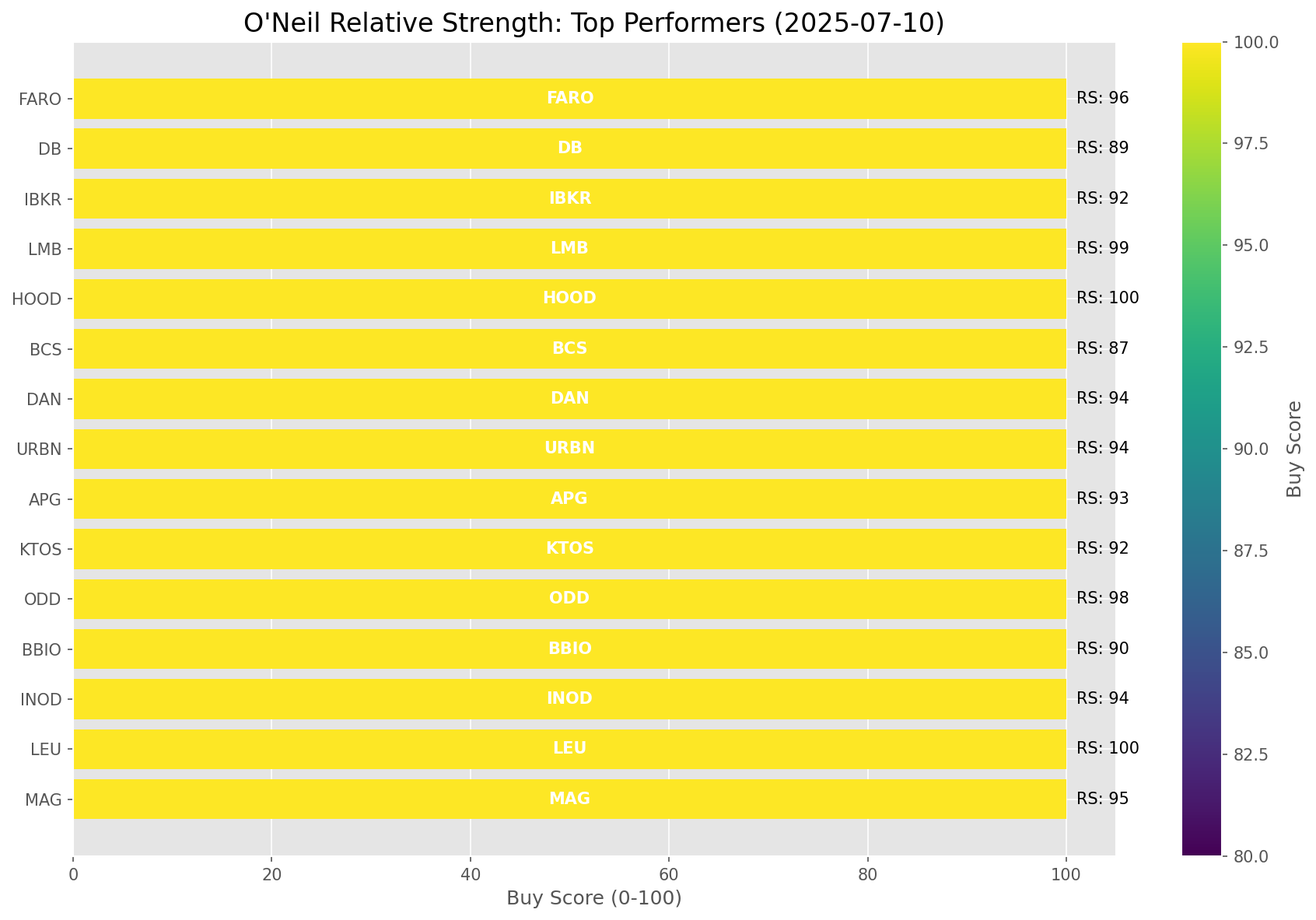
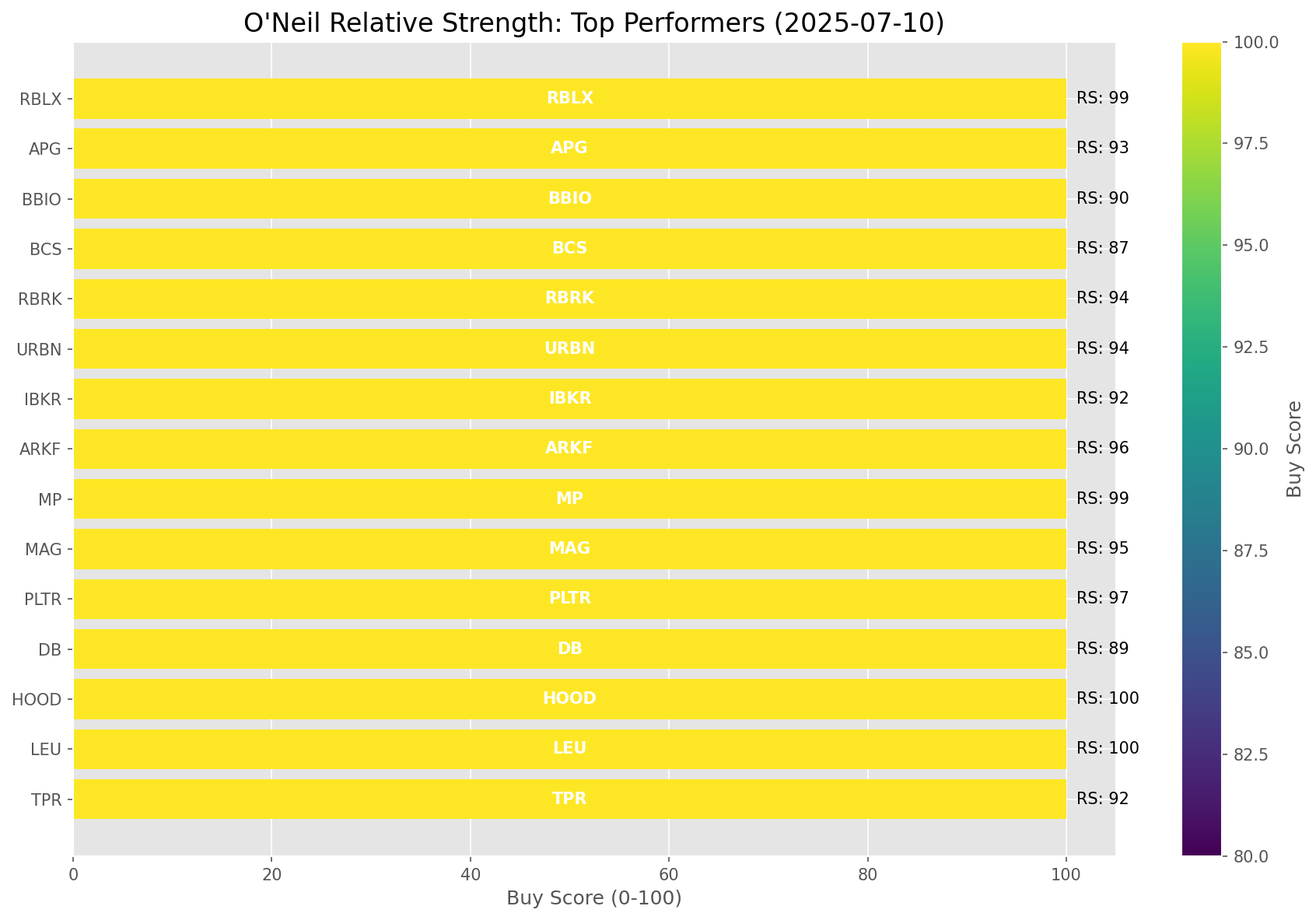
Add market report for 2025-07-10

diff --git a/oneil_relative_strength_report_2025-07-10.md b/oneil_relative_strength_report_2025-07-10.md
@@ -9,11 +9,11 @@
 | Metric | Value |
 |--------|-------|
 | **Market Valuation** | **Overvalued** |
-| **Current Ratio** | 10.28 |
+| **Current Ratio** | 10.30 |
 | **Historical Mean** | 9.44 |
 | **Standard Deviation** | 0.51 |
 | **Z-Score (StdDev from Mean)** | 1.62 |
-| **Total Market Cap** | $308.15 trillion |
+| **Total Market Cap** | $308.55 trillion |
 | **GDP** | $29.96 trillion |
 
 ## **Market Insights**
@@ -49,41 +49,41 @@ Based on William O'Neil's Relative Strength Methodology
 
 | ETF | Strength | RS Rating | Performance | Above Key MAs | Trend | Sector |
 |-----|----------|-----------|-------------|--------------|-------|--------|
-| [ARKW](https://www.tradingview.com/chart/?symbol=ARKW) | 98.0 | 96.0 | 76.14% | 10d ✓, 50d ✓, 200d ✓ | ↗ | Next Generation Internet |
-| [ARKF](https://www.tradingview.com/chart/?symbol=ARKF) | 98.0 | 96.0 | 75.40% | 10d ✓, 50d ✓, 200d ✓ | ↗ | Fintech Innovation |
-| [ARKK](https://www.tradingview.com/chart/?symbol=ARKK) | 98.0 | 96.0 | 80.20% | 10d ✓, 50d ✓, 200d ✓ | ↗ | Innovation |
-| [BLOK](https://www.tradingview.com/chart/?symbol=BLOK) | 97.0 | 94.0 | 63.84% | 10d ✓, 50d ✓, 200d ✓ | ↗ | Blockchain & Cryptocurrency |
-| [JETS](https://www.tradingview.com/chart/?symbol=JETS) | 93.5 | 87.0 | 47.50% | 10d ✓, 50d ✓, 200d ✓ | ↗ | Airlines |
-| [XLK](https://www.tradingview.com/chart/?symbol=XLK) | 91.5 | 83.0 | 42.81% | 10d ✓, 50d ✓, 200d ✓ | ↗ | Technology |
-| [AIQ](https://www.tradingview.com/chart/?symbol=AIQ) | 90.0 | 80.0 | 38.41% | 10d ✓, 50d ✓, 200d ✓ | ↗ | Artificial Intelligence & Technology |
-| [URA](https://www.tradingview.com/chart/?symbol=URA) | 88.6 | 97.0 | 82.75% | 10d ✗, 50d ✓, 200d ✓ | ↗ | Uranium |
-| [PAVE](https://www.tradingview.com/chart/?symbol=PAVE) | 87.5 | 75.0 | 34.09% | 10d ✓, 50d ✓, 200d ✓ | ↗ | Infrastructure |
-| [XLI](https://www.tradingview.com/chart/?symbol=XLI) | 84.5 | 69.0 | 29.72% | 10d ✓, 50d ✓, 200d ✓ | ↗ | Industrial |
-| [XLY](https://www.tradingview.com/chart/?symbol=XLY) | 80.5 | 61.0 | 25.34% | 10d ✓, 50d ✓, 200d ✓ | ↗ | Consumer Discretionary |
-| [SLV](https://www.tradingview.com/chart/?symbol=SLV) | 78.0 | 56.0 | 23.33% | 10d ✓, 50d ✓, 200d ✓ | ↗ | Silver |
-| [SOXX](https://www.tradingview.com/chart/?symbol=SOXX) | 76.0 | 92.0 | 59.26% | 10d ✓, 50d ✓, 200d ✓ | ↘ | Semiconductors |
-| [XLF](https://www.tradingview.com/chart/?symbol=XLF) | 75.0 | 50.0 | 19.98% | 10d ✓, 50d ✓, 200d ✓ | ↗ | Financial |
-| [CIBR](https://www.tradingview.com/chart/?symbol=CIBR) | 74.6 | 69.0 | 29.67% | 10d ✗, 50d ✓, 200d ✓ | ↗ | Cybersecurity |
-| [ARKG](https://www.tradingview.com/chart/?symbol=ARKG) | 71.5 | 83.0 | 42.37% | 10d ✓, 50d ✓, 200d ✓ | ↘ | Genomics |
-| [XLC](https://www.tradingview.com/chart/?symbol=XLC) | 69.1 | 58.0 | 23.89% | 10d ✗, 50d ✓, 200d ✓ | ↗ | Communications |
-| [XLU](https://www.tradingview.com/chart/?symbol=XLU) | 68.0 | 36.0 | 12.66% | 10d ✓, 50d ✓, 200d ✓ | ↗ | Utilities |
-| [IYT](https://www.tradingview.com/chart/?symbol=IYT) | 66.0 | 72.0 | 32.02% | 10d ✓, 50d ✓, 200d ✓ | ↘ | Transportation |
-| [IYZ](https://www.tradingview.com/chart/?symbol=IYZ) | 65.6 | 51.0 | 20.32% | 10d ✗, 50d ✓, 200d ✓ | ↗ | Telecommunications |
-| [KWEB](https://www.tradingview.com/chart/?symbol=KWEB) | 65.6 | 51.0 | 20.08% | 10d ✗, 50d ✓, 200d ✓ | ↗ | Chinese Internet |
-| [ICLN](https://www.tradingview.com/chart/?symbol=ICLN) | 63.5 | 67.0 | 28.27% | 10d ✓, 50d ✓, 200d ✓ | ↘ | Clean Energy |
-| [XLB](https://www.tradingview.com/chart/?symbol=XLB) | 59.5 | 59.0 | 24.64% | 10d ✓, 50d ✓, 200d ✓ | ↘ | Materials |
-| [XLE](https://www.tradingview.com/chart/?symbol=XLE) | 51.0 | 42.0 | 15.80% | 10d ✓, 50d ✓, 200d ✓ | ↘ | Energy |
-| [GLD](https://www.tradingview.com/chart/?symbol=GLD) | 46.7 | 33.0 | 11.02% | 10d ✗, 50d ✗, 200d ✓ | ↗ | Gold |
-| [DBC](https://www.tradingview.com/chart/?symbol=DBC) | 46.0 | 32.0 | 10.14% | 10d ✓, 50d ✓, 200d ✓ | ↘ | Commodities |
-| [IBB](https://www.tradingview.com/chart/?symbol=IBB) | 44.3 | 49.0 | 19.08% | 10d ✓, 50d ✓, 200d ✗ | ↘ | Biotechnology |
-| [ITB](https://www.tradingview.com/chart/?symbol=ITB) | 43.3 | 47.0 | 18.21% | 10d ✓, 50d ✓, 200d ✗ | ↘ | Home Construction |
-| [XLP](https://www.tradingview.com/chart/?symbol=XLP) | 42.7 | 25.0 | 6.39% | 10d ✗, 50d ✗, 200d ✓ | ↗ | Consumer Staples |
-| [IYR](https://www.tradingview.com/chart/?symbol=IYR) | 38.3 | 37.0 | 13.27% | 10d ✓, 50d ✓, 200d ✗ | ↘ | Real Estate |
-| [XLV](https://www.tradingview.com/chart/?symbol=XLV) | 29.3 | 19.0 | 2.81% | 10d ✓, 50d ✓, 200d ✗ | ↘ | Healthcare |
-| [DBA](https://www.tradingview.com/chart/?symbol=DBA) | 25.0 | 10.0 | -0.80% | 10d ✗, 50d ✗, 200d ✗ | ↗ | Agriculture |
-| [UUP](https://www.tradingview.com/chart/?symbol=UUP) | 13.4 | 7.0 | -3.86% | 10d ✓, 50d ✗, 200d ✗ | ↘ | U.S. Dollar |
-| [BIL](https://www.tradingview.com/chart/?symbol=BIL) | 6.0 | 12.0 | 0.03% | 10d ✗, 50d ✗, 200d ✗ | ↘ | Short-term Treasuries |
-| [TLT](https://www.tradingview.com/chart/?symbol=TLT) | 4.5 | 9.0 | -1.95% | 10d ✗, 50d ✗, 200d ✗ | ↘ | Long-term Treasuries |
+| [ARKW](https://www.tradingview.com/chart/?symbol=ARKW) | 98.0 | 96.0 | 81.95% | 10d ✓, 50d ✓, 200d ✓ | ↗ | Next Generation Internet |
+| [ARKF](https://www.tradingview.com/chart/?symbol=ARKF) | 98.0 | 96.0 | 76.14% | 10d ✓, 50d ✓, 200d ✓ | ↗ | Fintech Innovation |
+| [ARKK](https://www.tradingview.com/chart/?symbol=ARKK) | 98.0 | 96.0 | 80.70% | 10d ✓, 50d ✓, 200d ✓ | ↗ | Innovation |
+| [BLOK](https://www.tradingview.com/chart/?symbol=BLOK) | 97.0 | 94.0 | 64.87% | 10d ✓, 50d ✓, 200d ✓ | ↗ | Blockchain & Cryptocurrency |
+| [JETS](https://www.tradingview.com/chart/?symbol=JETS) | 93.5 | 87.0 | 48.19% | 10d ✓, 50d ✓, 200d ✓ | ↗ | Airlines |
+| [XLK](https://www.tradingview.com/chart/?symbol=XLK) | 91.5 | 83.0 | 43.05% | 10d ✓, 50d ✓, 200d ✓ | ↗ | Technology |
+| [AIQ](https://www.tradingview.com/chart/?symbol=AIQ) | 89.5 | 79.0 | 38.60% | 10d ✓, 50d ✓, 200d ✓ | ↗ | Artificial Intelligence & Technology |
+| [URA](https://www.tradingview.com/chart/?symbol=URA) | 88.1 | 96.0 | 82.13% | 10d ✗, 50d ✓, 200d ✓ | ↗ | Uranium |
+| [PAVE](https://www.tradingview.com/chart/?symbol=PAVE) | 87.5 | 75.0 | 34.13% | 10d ✓, 50d ✓, 200d ✓ | ↗ | Infrastructure |
+| [XLI](https://www.tradingview.com/chart/?symbol=XLI) | 84.0 | 68.0 | 29.82% | 10d ✓, 50d ✓, 200d ✓ | ↗ | Industrial |
+| [XLY](https://www.tradingview.com/chart/?symbol=XLY) | 80.0 | 60.0 | 25.38% | 10d ✓, 50d ✓, 200d ✓ | ↗ | Consumer Discretionary |
+| [SLV](https://www.tradingview.com/chart/?symbol=SLV) | 78.0 | 56.0 | 23.36% | 10d ✓, 50d ✓, 200d ✓ | ↗ | Silver |
+| [SOXX](https://www.tradingview.com/chart/?symbol=SOXX) | 76.0 | 92.0 | 59.28% | 10d ✓, 50d ✓, 200d ✓ | ↘ | Semiconductors |
+| [XLF](https://www.tradingview.com/chart/?symbol=XLF) | 75.0 | 50.0 | 20.07% | 10d ✓, 50d ✓, 200d ✓ | ↗ | Financial |
+| [CIBR](https://www.tradingview.com/chart/?symbol=CIBR) | 74.6 | 69.0 | 30.02% | 10d ✗, 50d ✓, 200d ✓ | ↗ | Cybersecurity |
+| [ARKG](https://www.tradingview.com/chart/?symbol=ARKG) | 71.5 | 83.0 | 42.72% | 10d ✓, 50d ✓, 200d ✓ | ↘ | Genomics |
+| [XLC](https://www.tradingview.com/chart/?symbol=XLC) | 68.6 | 57.0 | 23.92% | 10d ✗, 50d ✓, 200d ✓ | ↗ | Communications |
+| [XLU](https://www.tradingview.com/chart/?symbol=XLU) | 68.0 | 36.0 | 13.03% | 10d ✓, 50d ✓, 200d ✓ | ↗ | Utilities |
+| [IYT](https://www.tradingview.com/chart/?symbol=IYT) | 66.0 | 72.0 | 32.42% | 10d ✓, 50d ✓, 200d ✓ | ↘ | Transportation |
+| [IYZ](https://www.tradingview.com/chart/?symbol=IYZ) | 65.6 | 51.0 | 20.51% | 10d ✗, 50d ✓, 200d ✓ | ↗ | Telecommunications |
+| [KWEB](https://www.tradingview.com/chart/?symbol=KWEB) | 65.1 | 50.0 | 20.44% | 10d ✗, 50d ✓, 200d ✓ | ↗ | Chinese Internet |
+| [ICLN](https://www.tradingview.com/chart/?symbol=ICLN) | 63.0 | 66.0 | 28.13% | 10d ✓, 50d ✓, 200d ✓ | ↘ | Clean Energy |
+| [XLB](https://www.tradingview.com/chart/?symbol=XLB) | 59.0 | 58.0 | 24.59% | 10d ✓, 50d ✓, 200d ✓ | ↘ | Materials |
+| [XLE](https://www.tradingview.com/chart/?symbol=XLE) | 50.5 | 41.0 | 15.78% | 10d ✓, 50d ✓, 200d ✓ | ↘ | Energy |
+| [GLD](https://www.tradingview.com/chart/?symbol=GLD) | 46.7 | 33.0 | 10.98% | 10d ✗, 50d ✗, 200d ✓ | ↗ | Gold |
+| [DBC](https://www.tradingview.com/chart/?symbol=DBC) | 45.5 | 31.0 | 10.07% | 10d ✓, 50d ✓, 200d ✓ | ↘ | Commodities |
+| [IBB](https://www.tradingview.com/chart/?symbol=IBB) | 43.8 | 48.0 | 19.14% | 10d ✓, 50d ✓, 200d ✗ | ↘ | Biotechnology |
+| [ITB](https://www.tradingview.com/chart/?symbol=ITB) | 42.8 | 46.0 | 18.09% | 10d ✓, 50d ✓, 200d ✗ | ↘ | Home Construction |
+| [XLP](https://www.tradingview.com/chart/?symbol=XLP) | 42.7 | 25.0 | 6.57% | 10d ✗, 50d ✗, 200d ✓ | ↗ | Consumer Staples |
+| [IYR](https://www.tradingview.com/chart/?symbol=IYR) | 38.3 | 37.0 | 13.59% | 10d ✓, 50d ✓, 200d ✗ | ↘ | Real Estate |
+| [XLV](https://www.tradingview.com/chart/?symbol=XLV) | 28.8 | 18.0 | 2.82% | 10d ✓, 50d ✓, 200d ✗ | ↘ | Healthcare |
+| [DBA](https://www.tradingview.com/chart/?symbol=DBA) | 27.5 | 15.0 | 1.04% | 10d ✗, 50d ✗, 200d ✗ | ↗ | Agriculture |
+| [TLT](https://www.tradingview.com/chart/?symbol=TLT) | 14.4 | 9.0 | -1.90% | 10d ✗, 50d ✓, 200d ✗ | ↘ | Long-term Treasuries |
+| [UUP](https://www.tradingview.com/chart/?symbol=UUP) | 13.4 | 7.0 | -3.88% | 10d ✓, 50d ✗, 200d ✗ | ↘ | U.S. Dollar |
+| [BIL](https://www.tradingview.com/chart/?symbol=BIL) | 5.5 | 11.0 | 0.03% | 10d ✗, 50d ✗, 200d ✗ | ↘ | Short-term Treasuries |
 
 ### **Sector ETF Performance Interpretation**
 
@@ -100,152 +100,153 @@ This table shows the relative strength metrics for different market sectors base
 
 The current market leadership is coming from the following sectors: **Next Generation Internet, Fintech Innovation, Innovation**.
 
-The **Next Generation Internet** sector (represented by **ARKW**) is showing particularly strong relative strength with an RS rating of 96.0 and performance of 76.14% vs. the S&P 500. This sector is trading above its 10-day, 50-day, 200-day moving average(s). Investors should consider focusing on high RS stocks within these leading sectors for potential outperformance.
+The **Next Generation Internet** sector (represented by **ARKW**) is showing particularly strong relative strength with an RS rating of 96.0 and performance of 81.95% vs. the S&P 500. This sector is trading above its 10-day, 50-day, 200-day moving average(s). Investors should consider focusing on high RS stocks within these leading sectors for potential outperformance.
 
 ---
 
 ## **Buy Recommendations**
 
-The following 37 stocks show exceptional relative strength:
+The following 36 stocks show exceptional relative strength:
 
 | RS Rating | Buy Score | Current Price | Chart | Name | Ticker |
 |-----------|-----------|---------------|-------|------|--------|
-| 100 | 100 | $194.04 | [Chart](https://www.tradingview.com/chart/?symbol=LEU) | Centrus Energy Corp. | LEU |
-| 100 | 100 | $96.28 | [Chart](https://www.tradingview.com/chart/?symbol=HOOD) | Robinhood Markets, Inc. Class A Common Stock | HOOD |
+| 100 | 100 | $193.78 | [Chart](https://www.tradingview.com/chart/?symbol=LEU) | Centrus Energy Corp. | LEU |
+| 100 | 100 | $97.14 | [Chart](https://www.tradingview.com/chart/?symbol=HOOD) | Robinhood Markets, Inc. Class A Common Stock | HOOD |
+| 99 | 100 | $44.15 | [Chart](https://www.tradingview.com/chart/?symbol=MP) | MP Materials Corp. | MP |
+| 99 | 100 | $104.70 | [Chart](https://www.tradingview.com/chart/?symbol=RBLX) | Roblox Corporation | RBLX |
 | 99 | 100 | $145.69 | [Chart](https://www.tradingview.com/chart/?symbol=LMB) | Limbach Holdings, Inc Common Stock | LMB |
-| 99 | 100 | $104.84 | [Chart](https://www.tradingview.com/chart/?symbol=RBLX) | Roblox Corporation | RBLX |
-| 98 | 100 | $75.09 | [Chart](https://www.tradingview.com/chart/?symbol=ODD) | ODDITY Tech Ltd. Class A Ordinary Shares | ODD |
-| 98 | 100 | $144.00 | [Chart](https://www.tradingview.com/chart/?symbol=FUTU) | Futu Holdings Limited American Depositary Shares | FUTU |
-| 98 | 100 | $43.61 | [Chart](https://www.tradingview.com/chart/?symbol=MP) | MP Materials Corp. | MP |
-| 98 | 100 | $104.97 | [Chart](https://www.tradingview.com/chart/?symbol=VRNA) | Verona Pharma plc | VRNA |
-| 98 | 100 | $349.08 | [Chart](https://www.tradingview.com/chart/?symbol=CVNA) | Carvana Co. | CVNA |
-| 97 | 100 | $140.71 | [Chart](https://www.tradingview.com/chart/?symbol=PLTR) | Palantir Technologies Inc. Class A Common Stock | PLTR |
-| 97 | 100 | $539.22 | [Chart](https://www.tradingview.com/chart/?symbol=GEV) | GE Vernova Inc. | GEV |
-| 96 | 100 | $43.91 | [Chart](https://www.tradingview.com/chart/?symbol=FARO) | Faro Technologies Inc | FARO |
-| 96 | 100 | $51.20 | [Chart](https://www.tradingview.com/chart/?symbol=ARKF) | ARK Fintech Innovation ETF | ARKF |
-| 95 | 100 | $21.43 | [Chart](https://www.tradingview.com/chart/?symbol=MAG) | MAG Silver Corp. | MAG |
-| 94 | 100 | $53.04 | [Chart](https://www.tradingview.com/chart/?symbol=INOD) | Innodata Inc. | INOD |
-| 94 | 100 | $73.14 | [Chart](https://www.tradingview.com/chart/?symbol=URBN) | Urban Outfitters Inc | URBN |
-| 94 | 100 | $17.42 | [Chart](https://www.tradingview.com/chart/?symbol=DAN) | Dana Incorporated | DAN |
-| 93 | 100 | $34.73 | [Chart](https://www.tradingview.com/chart/?symbol=APG) | APi Group Corporation | APG |
-| 93 | 100 | $98.04 | [Chart](https://www.tradingview.com/chart/?symbol=TPR) | Tapestry, Inc. Common Stock | TPR |
-| 92 | 100 | $45.94 | [Chart](https://www.tradingview.com/chart/?symbol=KTOS) | Kratos Defense & Security Solutions, Inc. | KTOS |
-| 92 | 100 | $58.96 | [Chart](https://www.tradingview.com/chart/?symbol=IBKR) | Interactive Brokers Group, Inc. Class A Common Stock | IBKR |
+| 98 | 100 | $104.91 | [Chart](https://www.tradingview.com/chart/?symbol=VRNA) | Verona Pharma plc | VRNA |
+| 98 | 100 | $143.40 | [Chart](https://www.tradingview.com/chart/?symbol=FUTU) | Futu Holdings Limited American Depositary Shares | FUTU |
+| 98 | 100 | $349.00 | [Chart](https://www.tradingview.com/chart/?symbol=CVNA) | Carvana Co. | CVNA |
+| 97 | 100 | $141.99 | [Chart](https://www.tradingview.com/chart/?symbol=PLTR) | Palantir Technologies Inc. Class A Common Stock | PLTR |
+| 97 | 100 | $541.60 | [Chart](https://www.tradingview.com/chart/?symbol=GEV) | GE Vernova Inc. | GEV |
+| 96 | 100 | $51.41 | [Chart](https://www.tradingview.com/chart/?symbol=ARKF) | ARK Fintech Innovation ETF | ARKF |
+| 96 | 100 | $43.92 | [Chart](https://www.tradingview.com/chart/?symbol=FARO) | Faro Technologies Inc | FARO |
+| 95 | 100 | $21.38 | [Chart](https://www.tradingview.com/chart/?symbol=MAG) | MAG Silver Corp. | MAG |
+| 94 | 100 | $73.19 | [Chart](https://www.tradingview.com/chart/?symbol=URBN) | Urban Outfitters Inc | URBN |
+| 94 | 100 | $88.69 | [Chart](https://www.tradingview.com/chart/?symbol=RBRK) | Rubrik, Inc. | RBRK |
+| 93 | 100 | $34.72 | [Chart](https://www.tradingview.com/chart/?symbol=APG) | APi Group Corporation | APG |
+| 93 | 100 | $52.55 | [Chart](https://www.tradingview.com/chart/?symbol=INOD) | Innodata Inc. | INOD |
+| 92 | 100 | $97.84 | [Chart](https://www.tradingview.com/chart/?symbol=TPR) | Tapestry, Inc. Common Stock | TPR |
+| 92 | 100 | $58.92 | [Chart](https://www.tradingview.com/chart/?symbol=IBKR) | Interactive Brokers Group, Inc. Class A Common Stock | IBKR |
+| 92 | 100 | $46.20 | [Chart](https://www.tradingview.com/chart/?symbol=KTOS) | Kratos Defense & Security Solutions, Inc. | KTOS |
 | 90 | 100 | $46.11 | [Chart](https://www.tradingview.com/chart/?symbol=BBIO) | BridgeBio Pharma, Inc. Common Stock | BBIO |
-| 89 | 100 | $30.07 | [Chart](https://www.tradingview.com/chart/?symbol=DB) | Deutsche Bank Aktiengesellschaft | DB |
-| 87 | 100 | $18.79 | [Chart](https://www.tradingview.com/chart/?symbol=BCS) | Barclays PLC | BCS |
-| 90 | 99 | $88.42 | [Chart](https://www.tradingview.com/chart/?symbol=RYTM) | Rhythm Pharmaceuticals, Inc. Common Stock | RYTM |
-| 88 | 99 | $35.88 | [Chart](https://www.tradingview.com/chart/?symbol=ATAT) | Atour Lifestyle Holdings Limited American Depositary Shares | ATAT |
+| 89 | 100 | $29.95 | [Chart](https://www.tradingview.com/chart/?symbol=DB) | Deutsche Bank Aktiengesellschaft | DB |
+| 87 | 100 | $18.77 | [Chart](https://www.tradingview.com/chart/?symbol=BCS) | Barclays PLC | BCS |
+| 90 | 99 | $89.48 | [Chart](https://www.tradingview.com/chart/?symbol=RYTM) | Rhythm Pharmaceuticals, Inc. Common Stock | RYTM |
+| 88 | 99 | $35.96 | [Chart](https://www.tradingview.com/chart/?symbol=ATAT) | Atour Lifestyle Holdings Limited American Depositary Shares | ATAT |
 | 88 | 98 | $105.53 | [Chart](https://www.tradingview.com/chart/?symbol=SANM) | Sanmina  Corp | SANM |
-| 86 | 98 | $46.03 | [Chart](https://www.tradingview.com/chart/?symbol=DRS) | Leonardo DRS, Inc. Common Stock | DRS |
-| 86 | 97 | $44.08 | [Chart](https://www.tradingview.com/chart/?symbol=TOST) | Toast, Inc. | TOST |
-| 86 | 96 | $29.98 | [Chart](https://www.tradingview.com/chart/?symbol=NTGR) | NETGEAR, Inc. | NTGR |
-| 85 | 96 | $25.62 | [Chart](https://www.tradingview.com/chart/?symbol=KAR) | OPENLANE, Inc | KAR |
-| 82 | 96 | $29.18 | [Chart](https://www.tradingview.com/chart/?symbol=SRAD) | Sportradar Group AG Class A Ordinary Shares | SRAD |
-| 85 | 95 | $63.52 | [Chart](https://www.tradingview.com/chart/?symbol=IBIT) | iShares Bitcoin Trust ETF | IBIT |
-| 84 | 93 | $48.64 | [Chart](https://www.tradingview.com/chart/?symbol=SIL) | Global X Silver Miners ETF (NEW) | SIL |
-| 80 | 93 | $29.24 | [Chart](https://www.tradingview.com/chart/?symbol=CAE) | CAE INC | CAE |
-| 80 | 90 | $46.09 | [Chart](https://www.tradingview.com/chart/?symbol=AU) | AngloGold Ashanti plc | AU |
-| 80 | 89 | $25.04 | [Chart](https://www.tradingview.com/chart/?symbol=PUK) | PRUDENTIAL PLC ADS (REP 2 ORD SHARES) | PUK |
+| 87 | 98 | $250.24 | [Chart](https://www.tradingview.com/chart/?symbol=GE) | GE Aerospace | GE |
+| 87 | 98 | $44.41 | [Chart](https://www.tradingview.com/chart/?symbol=TOST) | Toast, Inc. | TOST |
+| 86 | 98 | $46.25 | [Chart](https://www.tradingview.com/chart/?symbol=DRS) | Leonardo DRS, Inc. Common Stock | DRS |
+| 87 | 97 | $64.45 | [Chart](https://www.tradingview.com/chart/?symbol=IBIT) | iShares Bitcoin Trust ETF | IBIT |
+| 85 | 96 | $25.54 | [Chart](https://www.tradingview.com/chart/?symbol=KAR) | OPENLANE, Inc | KAR |
+| 85 | 95 | $29.98 | [Chart](https://www.tradingview.com/chart/?symbol=NTGR) | NETGEAR, Inc. | NTGR |
+| 81 | 95 | $29.14 | [Chart](https://www.tradingview.com/chart/?symbol=SRAD) | Sportradar Group AG Class A Ordinary Shares | SRAD |
+| 80 | 93 | $29.29 | [Chart](https://www.tradingview.com/chart/?symbol=CAE) | CAE INC | CAE |
+| 83 | 92 | $48.66 | [Chart](https://www.tradingview.com/chart/?symbol=SIL) | Global X Silver Miners ETF (NEW) | SIL |
+| 80 | 90 | $46.10 | [Chart](https://www.tradingview.com/chart/?symbol=AU) | AngloGold Ashanti plc | AU |
 
 ---
 
 
 ## **Sell Recommendations**
 
-The following 89 stocks show deteriorating relative strength:
+The following 91 stocks show deteriorating relative strength:
 
 | RS Rating | Sell Score | Current Price | Chart | Name | Ticker |
 |-----------|------------|---------------|-------|------|--------|
-| 1 | 100 | $24.51 | [Chart](https://www.tradingview.com/chart/?symbol=ZSL) | ProShares UltraShort Silver | ZSL |
-| 1 | 100 | $25.12 | [Chart](https://www.tradingview.com/chart/?symbol=QID) | ProShares UltraShort QQQ | QID |
-| 1 | 100 | $25.70 | [Chart](https://www.tradingview.com/chart/?symbol=TECS) | Direxion Daily Technology Bear 3x Shares | TECS |
-| 1 | 100 | $16.32 | [Chart](https://www.tradingview.com/chart/?symbol=SDS) | ProShares UltraShort S&P500 | SDS |
-| 1 | 100 | $39.84 | [Chart](https://www.tradingview.com/chart/?symbol=SDOW) | ProShares UltraPro Short Dow 30 | SDOW |
+| 1 | 100 | $24.46 | [Chart](https://www.tradingview.com/chart/?symbol=ZSL) | ProShares UltraShort Silver | ZSL |
+| 1 | 100 | $25.57 | [Chart](https://www.tradingview.com/chart/?symbol=TECS) | Direxion Daily Technology Bear 3x Shares | TECS |
+| 1 | 100 | $16.28 | [Chart](https://www.tradingview.com/chart/?symbol=SDS) | ProShares UltraShort S&P500 | SDS |
+| 1 | 100 | $18.65 | [Chart](https://www.tradingview.com/chart/?symbol=BITI) | ProShares Short Bitcoin ETF | BITI |
+| 1 | 100 | $39.73 | [Chart](https://www.tradingview.com/chart/?symbol=SDOW) | ProShares UltraPro Short Dow 30 | SDOW |
+| 1 | 100 | $25.07 | [Chart](https://www.tradingview.com/chart/?symbol=QID) | ProShares UltraShort QQQ | QID |
 | 2 | 100 | $20.90 | [Chart](https://www.tradingview.com/chart/?symbol=ERY) | Direxion Daily Energy Bear 2X Shares | ERY |
-| 2 | 100 | $34.67 | [Chart](https://www.tradingview.com/chart/?symbol=SARK) | Investment Managers Series Trust II Tradr 1X Short Innovation Daily ETF | SARK |
-| 2 | 100 | $23.59 | [Chart](https://www.tradingview.com/chart/?symbol=DXD) | ProShares UltraShort Dow 30 | DXD |
-| 2 | 100 | $233.22 | [Chart](https://www.tradingview.com/chart/?symbol=MOH) | Molina Healthcare, Inc. | MOH |
-| 2 | 100 | $18.93 | [Chart](https://www.tradingview.com/chart/?symbol=BITI) | ProShares Short Bitcoin ETF | BITI |
-| 2 | 100 | $39.30 | [Chart](https://www.tradingview.com/chart/?symbol=SH) | ProShares Short S&P500 | SH |
-| 2 | 100 | $33.55 | [Chart](https://www.tradingview.com/chart/?symbol=PSQ) | ProShares Short QQQ | PSQ |
 | 2 | 100 | $10.25 | [Chart](https://www.tradingview.com/chart/?symbol=SNDX) | Syndax Pharmaceuticals, Inc. | SNDX |
-| 3 | 100 | $25.17 | [Chart](https://www.tradingview.com/chart/?symbol=DOG) | ProShares Short Dow30 | DOG |
+| 2 | 100 | $33.52 | [Chart](https://www.tradingview.com/chart/?symbol=PSQ) | ProShares Short QQQ | PSQ |
+| 2 | 100 | $23.57 | [Chart](https://www.tradingview.com/chart/?symbol=DXD) | ProShares UltraShort Dow 30 | DXD |
+| 2 | 100 | $232.09 | [Chart](https://www.tradingview.com/chart/?symbol=MOH) | Molina Healthcare, Inc. | MOH |
+| 2 | 100 | $39.24 | [Chart](https://www.tradingview.com/chart/?symbol=SH) | ProShares Short S&P500 | SH |
+| 2 | 100 | $34.67 | [Chart](https://www.tradingview.com/chart/?symbol=SARK) | Investment Managers Series Trust II Tradr 1X Short Innovation Daily ETF | SARK |
+| 3 | 100 | $25.14 | [Chart](https://www.tradingview.com/chart/?symbol=DOG) | ProShares Short Dow30 | DOG |
+| 3 | 100 | $234.68 | [Chart](https://www.tradingview.com/chart/?symbol=HUM) | Humana Inc. | HUM |
 | 3 | 100 | $12.55 | [Chart](https://www.tradingview.com/chart/?symbol=CCRN) | Cross Country Healthcare Inc | CCRN |
-| 3 | 100 | $37.27 | [Chart](https://www.tradingview.com/chart/?symbol=IBTA) | Ibotta, Inc. | IBTA |
-| 3 | 100 | $60.78 | [Chart](https://www.tradingview.com/chart/?symbol=STC) | Stewart Information Services Corporation | STC |
+| 3 | 100 | $60.16 | [Chart](https://www.tradingview.com/chart/?symbol=STC) | Stewart Information Services Corporation | STC |
 | 3 | 100 | $24.78 | [Chart](https://www.tradingview.com/chart/?symbol=CRTO) | Criteo S.A. | CRTO |
-| 3 | 100 | $233.96 | [Chart](https://www.tradingview.com/chart/?symbol=HUM) | Humana Inc. | HUM |
-| 4 | 100 | $17.23 | [Chart](https://www.tradingview.com/chart/?symbol=HP) | Helmerich & Payne, Inc. | HP |
-| 4 | 100 | $43.60 | [Chart](https://www.tradingview.com/chart/?symbol=LINE) | Lineage, Inc. Common Stock | LINE |
-| 4 | 100 | $10.42 | [Chart](https://www.tradingview.com/chart/?symbol=LBTYK) | Liberty Global Ltd. Class C Common Shares | LBTYK |
+| 4 | 100 | $51.22 | [Chart](https://www.tradingview.com/chart/?symbol=ASGN) | ASGN Incorporated | ASGN |
 | 4 | 100 | $65.01 | [Chart](https://www.tradingview.com/chart/?symbol=ZROZ) | PIMCO 25+ Year Zero Coupon U.S. Treasury Index Exchange-Traded Fund | ZROZ |
+| 4 | 100 | $10.44 | [Chart](https://www.tradingview.com/chart/?symbol=LBTYK) | Liberty Global Ltd. Class C Common Shares | LBTYK |
 | 4 | 100 | $55.80 | [Chart](https://www.tradingview.com/chart/?symbol=AMWD) | American Woodmark Corp | AMWD |
+| 4 | 100 | $43.44 | [Chart](https://www.tradingview.com/chart/?symbol=LINE) | Lineage, Inc. Common Stock | LINE |
+| 4 | 100 | $37.71 | [Chart](https://www.tradingview.com/chart/?symbol=IBTA) | Ibotta, Inc. | IBTA |
 | 5 | 100 | $10.13 | [Chart](https://www.tradingview.com/chart/?symbol=LBTYA) | Liberty Global Ltd. Class A Common Shares | LBTYA |
-| 5 | 100 | $49.28 | [Chart](https://www.tradingview.com/chart/?symbol=CCOI) | Cogent Communications Holdings, Inc. | CCOI |
-| 5 | 100 | $14.65 | [Chart](https://www.tradingview.com/chart/?symbol=SEM) | SELECT MEDICAL HOLDINGS CORP | SEM |
-| 6 | 100 | $16.54 | [Chart](https://www.tradingview.com/chart/?symbol=COLD) | Americold Realty Trust, Inc. | COLD |
-| 6 | 100 | $17.35 | [Chart](https://www.tradingview.com/chart/?symbol=NOMD) | Nomad Foods Limited | NOMD |
+| 5 | 100 | $14.70 | [Chart](https://www.tradingview.com/chart/?symbol=SEM) | SELECT MEDICAL HOLDINGS CORP | SEM |
+| 6 | 100 | $14.59 | [Chart](https://www.tradingview.com/chart/?symbol=VRE) | Veris Residential, Inc. | VRE |
+| 6 | 100 | $16.45 | [Chart](https://www.tradingview.com/chart/?symbol=COLD) | Americold Realty Trust, Inc. | COLD |
+| 6 | 100 | $17.34 | [Chart](https://www.tradingview.com/chart/?symbol=NOMD) | Nomad Foods Limited | NOMD |
 | 6 | 100 | $10.35 | [Chart](https://www.tradingview.com/chart/?symbol=NMZ) | Nuveen Municipal High Income Opportunity Fund | NMZ |
-| 7 | 100 | $15.79 | [Chart](https://www.tradingview.com/chart/?symbol=TNDM) | Tandem Diabetes Care, Inc. | TNDM |
-| 7 | 100 | $14.59 | [Chart](https://www.tradingview.com/chart/?symbol=VRE) | Veris Residential, Inc. | VRE |
 | 8 | 100 | $71.64 | [Chart](https://www.tradingview.com/chart/?symbol=TNET) | TRINET GROUP, INC. | TNET |
-| 8 | 100 | $50.96 | [Chart](https://www.tradingview.com/chart/?symbol=LW) | Lamb Weston Holdings, Inc. | LW |
-| 9 | 100 | $86.63 | [Chart](https://www.tradingview.com/chart/?symbol=TLT) | iShares 20+ Year Treasury Bond ETF | TLT |
-| 10 | 100 | $132.41 | [Chart](https://www.tradingview.com/chart/?symbol=KMB) | Kimberly-Clark Corp. | KMB |
-| 11 | 100 | $29.14 | [Chart](https://www.tradingview.com/chart/?symbol=SPTS) | SPDR Portfolio Short Term Treasury ETF | SPTS |
-| 11 | 100 | $41.33 | [Chart](https://www.tradingview.com/chart/?symbol=POR) | Portland General Electric Company | POR |
+| 8 | 100 | $51.23 | [Chart](https://www.tradingview.com/chart/?symbol=LW) | Lamb Weston Holdings, Inc. | LW |
+| 9 | 100 | $16.12 | [Chart](https://www.tradingview.com/chart/?symbol=TNDM) | Tandem Diabetes Care, Inc. | TNDM |
+| 10 | 100 | $29.15 | [Chart](https://www.tradingview.com/chart/?symbol=SPTS) | SPDR Portfolio Short Term Treasury ETF | SPTS |
+| 10 | 100 | $132.71 | [Chart](https://www.tradingview.com/chart/?symbol=KMB) | Kimberly-Clark Corp. | KMB |
+| 11 | 100 | $22.85 | [Chart](https://www.tradingview.com/chart/?symbol=IBTG) | iShares iBonds Dec 2026 Term Treasury ETF | IBTG |
+| 12 | 100 | $41.47 | [Chart](https://www.tradingview.com/chart/?symbol=POR) | Portland General Electric Company | POR |
+| 7 | 99 | $13.06 | [Chart](https://www.tradingview.com/chart/?symbol=GO) | Grocery Outlet Holding Corp. Common Stock | GO |
+| 11 | 99 | $77.08 | [Chart](https://www.tradingview.com/chart/?symbol=CNS) | Cohen & Steers Inc. | CNS |
 | 4 | 98 | $25.28 | [Chart](https://www.tradingview.com/chart/?symbol=DRV) | Direxion Daily Real Estate Bear 3X Shares | DRV |
+| 7 | 98 | $21.69 | [Chart](https://www.tradingview.com/chart/?symbol=TUA) | Simplify Short Term Treasury Futures Strategy ETF | TUA |
 | 8 | 98 | $46.27 | [Chart](https://www.tradingview.com/chart/?symbol=CWT) | California Water Service | CWT |
-| 8 | 98 | $13.09 | [Chart](https://www.tradingview.com/chart/?symbol=GO) | Grocery Outlet Holding Corp. Common Stock | GO |
-| 11 | 98 | $22.85 | [Chart](https://www.tradingview.com/chart/?symbol=IBTG) | iShares iBonds Dec 2026 Term Treasury ETF | IBTG |
-| 12 | 98 | $77.08 | [Chart](https://www.tradingview.com/chart/?symbol=CNS) | Cohen & Steers Inc. | CNS |
-| 8 | 97 | $21.69 | [Chart](https://www.tradingview.com/chart/?symbol=TUA) | Simplify Short Term Treasury Futures Strategy ETF | TUA |
-| 15 | 97 | $47.31 | [Chart](https://www.tradingview.com/chart/?symbol=KBR) | KBR, Inc. | KBR |
-| 7 | 96 | $27.75 | [Chart](https://www.tradingview.com/chart/?symbol=VCYT) | Veracyte, Inc. | VCYT |
-| 9 | 96 | $49.08 | [Chart](https://www.tradingview.com/chart/?symbol=SNY) | Sanofi American Depositary Shares (Each representing one-half of one ordinary share) | SNY |
-| 11 | 94 | $82.45 | [Chart](https://www.tradingview.com/chart/?symbol=SHY) | iShares 1-3 Year Treasury Bond ETF | SHY |
-| 21 | 94 | $461.42 | [Chart](https://www.tradingview.com/chart/?symbol=LMT) | Lockheed Martin Corp. | LMT |
-| 8 | 92 | $70.75 | [Chart](https://www.tradingview.com/chart/?symbol=RLI) | RLI Corp. | RLI |
-| 20 | 92 | $105.72 | [Chart](https://www.tradingview.com/chart/?symbol=DECK) | Deckers Outdoor Corp | DECK |
-| 12 | 91 | $110.17 | [Chart](https://www.tradingview.com/chart/?symbol=SHV) | iShares Short Treasury Bond ETF | SHV |
-| 16 | 91 | $25.23 | [Chart](https://www.tradingview.com/chart/?symbol=TBBB) | BBB Foods Inc. | TBBB |
-| 22 | 91 | $86.33 | [Chart](https://www.tradingview.com/chart/?symbol=SIGI) | Selective Insurance Group | SIGI |
-| 12 | 90 | $59.89 | [Chart](https://www.tradingview.com/chart/?symbol=FTSM) | First Trust Enhanced Short Maturity ETF | FTSM |
-| 15 | 90 | $13.24 | [Chart](https://www.tradingview.com/chart/?symbol=BSM) | Black Stone Minerals, L.P. | BSM |
-| 17 | 90 | $24.59 | [Chart](https://www.tradingview.com/chart/?symbol=HYMB) | SPDR Nuveen ICE High Yield Municipal Bond ETF | HYMB |
-| 19 | 90 | $34.59 | [Chart](https://www.tradingview.com/chart/?symbol=PECO) | Phillips Edison & Company, Inc. Common Stock | PECO |
-| 21 | 90 | $54.17 | [Chart](https://www.tradingview.com/chart/?symbol=CNMD) | CONMED Corporation | CNMD |
-| 25 | 90 | $32.40 | [Chart](https://www.tradingview.com/chart/?symbol=INVH) | Invitation Homes Inc. Common Stock | INVH |
-| 12 | 89 | $100.28 | [Chart](https://www.tradingview.com/chart/?symbol=MINT) | PIMCO Enhanced Short Maturity Active Exchange-Traded Fund | MINT |
-| 23 | 89 | $14.02 | [Chart](https://www.tradingview.com/chart/?symbol=DOLE) | Dole plc | DOLE |
+| 15 | 97 | $47.34 | [Chart](https://www.tradingview.com/chart/?symbol=KBR) | KBR, Inc. | KBR |
+| 7 | 96 | $27.78 | [Chart](https://www.tradingview.com/chart/?symbol=VCYT) | Veracyte, Inc. | VCYT |
+| 9 | 95 | $49.20 | [Chart](https://www.tradingview.com/chart/?symbol=SNY) | Sanofi American Depositary Shares (Each representing one-half of one ordinary share) | SNY |
+| 11 | 94 | $82.44 | [Chart](https://www.tradingview.com/chart/?symbol=SHY) | iShares 1-3 Year Treasury Bond ETF | SHY |
+| 12 | 94 | $141.48 | [Chart](https://www.tradingview.com/chart/?symbol=INSP) | Inspire Medical Systems, Inc. | INSP |
+| 21 | 93 | $463.64 | [Chart](https://www.tradingview.com/chart/?symbol=LMT) | Lockheed Martin Corp. | LMT |
+| 8 | 92 | $70.87 | [Chart](https://www.tradingview.com/chart/?symbol=RLI) | RLI Corp. | RLI |
+| 11 | 92 | $110.18 | [Chart](https://www.tradingview.com/chart/?symbol=SHV) | iShares Short Treasury Bond ETF | SHV |
+| 20 | 92 | $105.62 | [Chart](https://www.tradingview.com/chart/?symbol=DECK) | Deckers Outdoor Corp | DECK |
+| 22 | 92 | $87.08 | [Chart](https://www.tradingview.com/chart/?symbol=SIGI) | Selective Insurance Group | SIGI |
+| 10 | 90 | $22.38 | [Chart](https://www.tradingview.com/chart/?symbol=IBTH) | iShares iBonds Dec 2027 Term Treasury ETF | IBTH |
+| 12 | 90 | $59.90 | [Chart](https://www.tradingview.com/chart/?symbol=FTSM) | First Trust Enhanced Short Maturity ETF | FTSM |
+| 15 | 90 | $13.23 | [Chart](https://www.tradingview.com/chart/?symbol=BSM) | Black Stone Minerals, L.P. | BSM |
+| 17 | 90 | $25.39 | [Chart](https://www.tradingview.com/chart/?symbol=TBBB) | BBB Foods Inc. | TBBB |
+| 21 | 90 | $54.10 | [Chart](https://www.tradingview.com/chart/?symbol=CNMD) | CONMED Corporation | CNMD |
+| 25 | 90 | $32.51 | [Chart](https://www.tradingview.com/chart/?symbol=INVH) | Invitation Homes Inc. Common Stock | INVH |
+| 17 | 89 | $24.59 | [Chart](https://www.tradingview.com/chart/?symbol=HYMB) | SPDR Nuveen ICE High Yield Municipal Bond ETF | HYMB |
+| 20 | 89 | $34.74 | [Chart](https://www.tradingview.com/chart/?symbol=PECO) | Phillips Edison & Company, Inc. Common Stock | PECO |
+| 24 | 89 | $61.55 | [Chart](https://www.tradingview.com/chart/?symbol=UL) | Unilever plc | UL |
+| 12 | 88 | $100.28 | [Chart](https://www.tradingview.com/chart/?symbol=MINT) | PIMCO Enhanced Short Maturity Active Exchange-Traded Fund | MINT |
 | 17 | 88 | $26.16 | [Chart](https://www.tradingview.com/chart/?symbol=PNTG) | The Pennant Group, Inc. Common Stock | PNTG |
-| 25 | 88 | $61.51 | [Chart](https://www.tradingview.com/chart/?symbol=UL) | Unilever plc | UL |
-| 20 | 87 | $164.69 | [Chart](https://www.tradingview.com/chart/?symbol=HSY) | The Hershey Company | HSY |
-| 19 | 86 | $36.40 | [Chart](https://www.tradingview.com/chart/?symbol=PBA) | PEMBINA PIPELINE CORPORATION | PBA |
-| 21 | 86 | $105.64 | [Chart](https://www.tradingview.com/chart/?symbol=DEO) | Diageo plc | DEO |
+| 20 | 87 | $19.98 | [Chart](https://www.tradingview.com/chart/?symbol=SPT) | Sprout Social, Inc Class A Common Stock | SPT |
+| 20 | 87 | $105.78 | [Chart](https://www.tradingview.com/chart/?symbol=DEO) | Diageo plc | DEO |
+| 24 | 87 | $14.13 | [Chart](https://www.tradingview.com/chart/?symbol=DOLE) | Dole plc | DOLE |
+| 19 | 86 | $36.45 | [Chart](https://www.tradingview.com/chart/?symbol=PBA) | PEMBINA PIPELINE CORPORATION | PBA |
+| 20 | 86 | $165.26 | [Chart](https://www.tradingview.com/chart/?symbol=HSY) | The Hershey Company | HSY |
+| 18 | 85 | $26.80 | [Chart](https://www.tradingview.com/chart/?symbol=FCPT) | Four Corners Property Trust, Inc. | FCPT |
 | 19 | 85 | $77.65 | [Chart](https://www.tradingview.com/chart/?symbol=AWR) | American States Water Company | AWR |
-| 19 | 85 | $13.99 | [Chart](https://www.tradingview.com/chart/?symbol=CGBD) | Carlyle Secured Lending, Inc. Common Stock | CGBD |
-| 29 | 83 | $15.94 | [Chart](https://www.tradingview.com/chart/?symbol=BNL) | Broadstone Net Lease, Inc. | BNL |
-| 18 | 82 | $35.83 | [Chart](https://www.tradingview.com/chart/?symbol=VERX) | Vertex, Inc. Class A Common Stock | VERX |
-| 20 | 82 | $20.48 | [Chart](https://www.tradingview.com/chart/?symbol=CON) | Concentra Group Holdings Parent, Inc. | CON |
-| 26 | 82 | $120.47 | [Chart](https://www.tradingview.com/chart/?symbol=ITGR) | Integer Holdings Corporation | ITGR |
-| 26 | 82 | $40.62 | [Chart](https://www.tradingview.com/chart/?symbol=UDR) | UDR, Inc. | UDR |
-| 29 | 82 | $22.30 | [Chart](https://www.tradingview.com/chart/?symbol=SGRY) | Surgery Partners, Inc. Common Stock | SGRY |
-| 34 | 80 | $18.12 | [Chart](https://www.tradingview.com/chart/?symbol=S) | SentinelOne, Inc. | S |
-| 28 | 79 | $100.62 | [Chart](https://www.tradingview.com/chart/?symbol=FMX) | FOMENTO ECONOMICO MEXICANO, S.A.B. DE C.V. | FMX |
-| 25 | 78 | $16.22 | [Chart](https://www.tradingview.com/chart/?symbol=PRO) | Pros Holdings, Inc. | PRO |
-| 28 | 77 | $57.25 | [Chart](https://www.tradingview.com/chart/?symbol=ESNT) | Essent Group LTD | ESNT |
-| 28 | 77 | $19.16 | [Chart](https://www.tradingview.com/chart/?symbol=MSDL) | Morgan Stanley Direct Lending Fund | MSDL |
-| 26 | 76 | $113.65 | [Chart](https://www.tradingview.com/chart/?symbol=CPT) | Camden Property Trust | CPT |
-| 29 | 76 | $67.19 | [Chart](https://www.tradingview.com/chart/?symbol=EQR) | Equity Residential | EQR |
-| 30 | 76 | $35.72 | [Chart](https://www.tradingview.com/chart/?symbol=AMH) | AMERICAN HOMES 4 RENT | AMH |
+| 19 | 83 | $20.53 | [Chart](https://www.tradingview.com/chart/?symbol=CON) | Concentra Group Holdings Parent, Inc. | CON |
+| 21 | 83 | $71.87 | [Chart](https://www.tradingview.com/chart/?symbol=NHI) | National Health Investors | NHI |
+| 29 | 83 | $15.99 | [Chart](https://www.tradingview.com/chart/?symbol=BNL) | Broadstone Net Lease, Inc. | BNL |
+| 18 | 82 | $36.03 | [Chart](https://www.tradingview.com/chart/?symbol=VERX) | Vertex, Inc. Class A Common Stock | VERX |
+| 25 | 82 | $40.64 | [Chart](https://www.tradingview.com/chart/?symbol=UDR) | UDR, Inc. | UDR |
+| 30 | 80 | $22.40 | [Chart](https://www.tradingview.com/chart/?symbol=SGRY) | Surgery Partners, Inc. Common Stock | SGRY |
+| 28 | 79 | $101.04 | [Chart](https://www.tradingview.com/chart/?symbol=FMX) | FOMENTO ECONOMICO MEXICANO, S.A.B. DE C.V. | FMX |
+| 34 | 79 | $18.20 | [Chart](https://www.tradingview.com/chart/?symbol=S) | SentinelOne, Inc. | S |
+| 27 | 78 | $19.14 | [Chart](https://www.tradingview.com/chart/?symbol=MSDL) | Morgan Stanley Direct Lending Fund | MSDL |
+| 30 | 78 | $569.75 | [Chart](https://www.tradingview.com/chart/?symbol=TYL) | Tyler Technologies, Inc. | TYL |
+| 26 | 76 | $16.36 | [Chart](https://www.tradingview.com/chart/?symbol=PRO) | Pros Holdings, Inc. | PRO |
+| 30 | 76 | $35.84 | [Chart](https://www.tradingview.com/chart/?symbol=AMH) | AMERICAN HOMES 4 RENT | AMH |
 | 31 | 76 | $56.44 | [Chart](https://www.tradingview.com/chart/?symbol=USRT) | iShares Core U.S. REIT ETF | USRT |
-| 27 | 75 | $35.15 | [Chart](https://www.tradingview.com/chart/?symbol=LTC) | LTC Properties, Inc. | LTC |
-| 32 | 74 | $18.14 | [Chart](https://www.tradingview.com/chart/?symbol=INFY) | Infosys Limited American Depositary Shares | INFY |
-| 30 | 70 | $240.25 | [Chart](https://www.tradingview.com/chart/?symbol=RNR) | RenaissanceRe Holdings Ltd. | RNR |
-| 34 | 68 | $104.73 | [Chart](https://www.tradingview.com/chart/?symbol=PDD) | PDD Holdings Inc. American Depositary Shares | PDD |
-| 37 | 65 | $67.86 | [Chart](https://www.tradingview.com/chart/?symbol=QSR) | Restaurant Brands International Inc. | QSR |
+| 26 | 75 | $114.21 | [Chart](https://www.tradingview.com/chart/?symbol=CPT) | Camden Property Trust | CPT |
+| 29 | 75 | $67.39 | [Chart](https://www.tradingview.com/chart/?symbol=EQR) | Equity Residential | EQR |
+| 29 | 75 | $57.58 | [Chart](https://www.tradingview.com/chart/?symbol=ESNT) | Essent Group LTD | ESNT |
+| 32 | 74 | $18.12 | [Chart](https://www.tradingview.com/chart/?symbol=INFY) | Infosys Limited American Depositary Shares | INFY |
+| 29 | 71 | $240.25 | [Chart](https://www.tradingview.com/chart/?symbol=RNR) | RenaissanceRe Holdings Ltd. | RNR |
+| 35 | 67 | $105.12 | [Chart](https://www.tradingview.com/chart/?symbol=PDD) | PDD Holdings Inc. American Depositary Shares | PDD |
+| 39 | 67 | $32.55 | [Chart](https://www.tradingview.com/chart/?symbol=CDRE) | Cadre Holdings, Inc. | CDRE |
+| 36 | 66 | $67.82 | [Chart](https://www.tradingview.com/chart/?symbol=QSR) | Restaurant Brands International Inc. | QSR |
 
 ## **Methodology**
 
